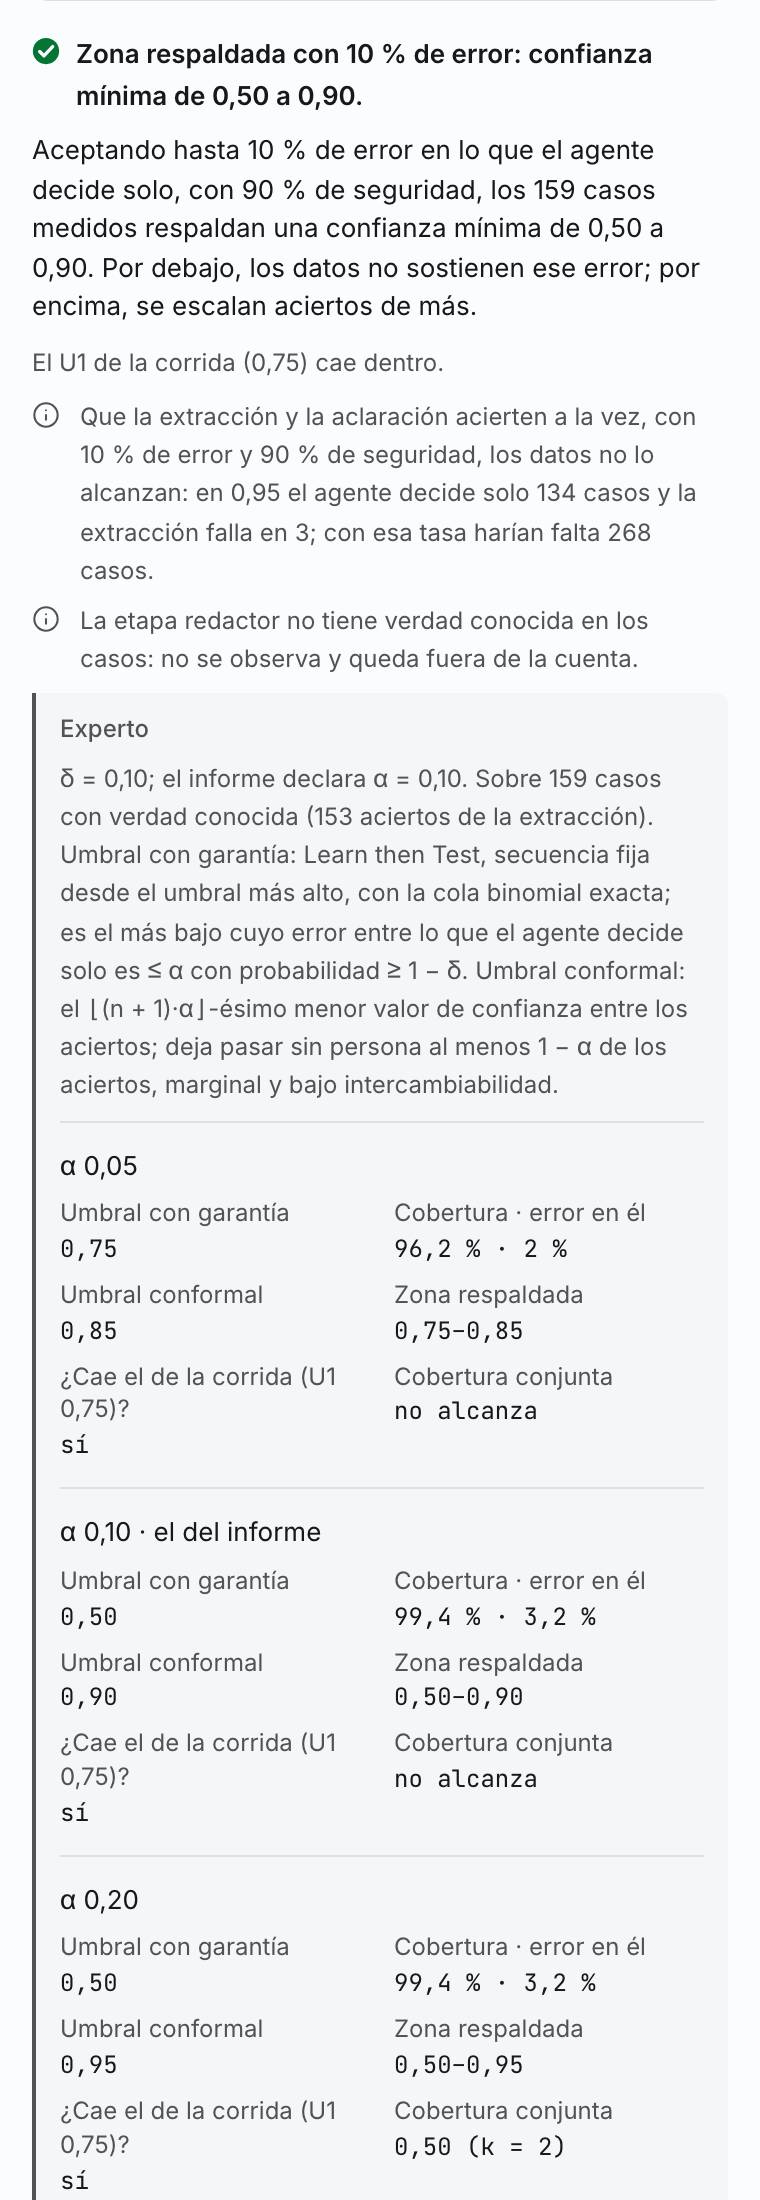
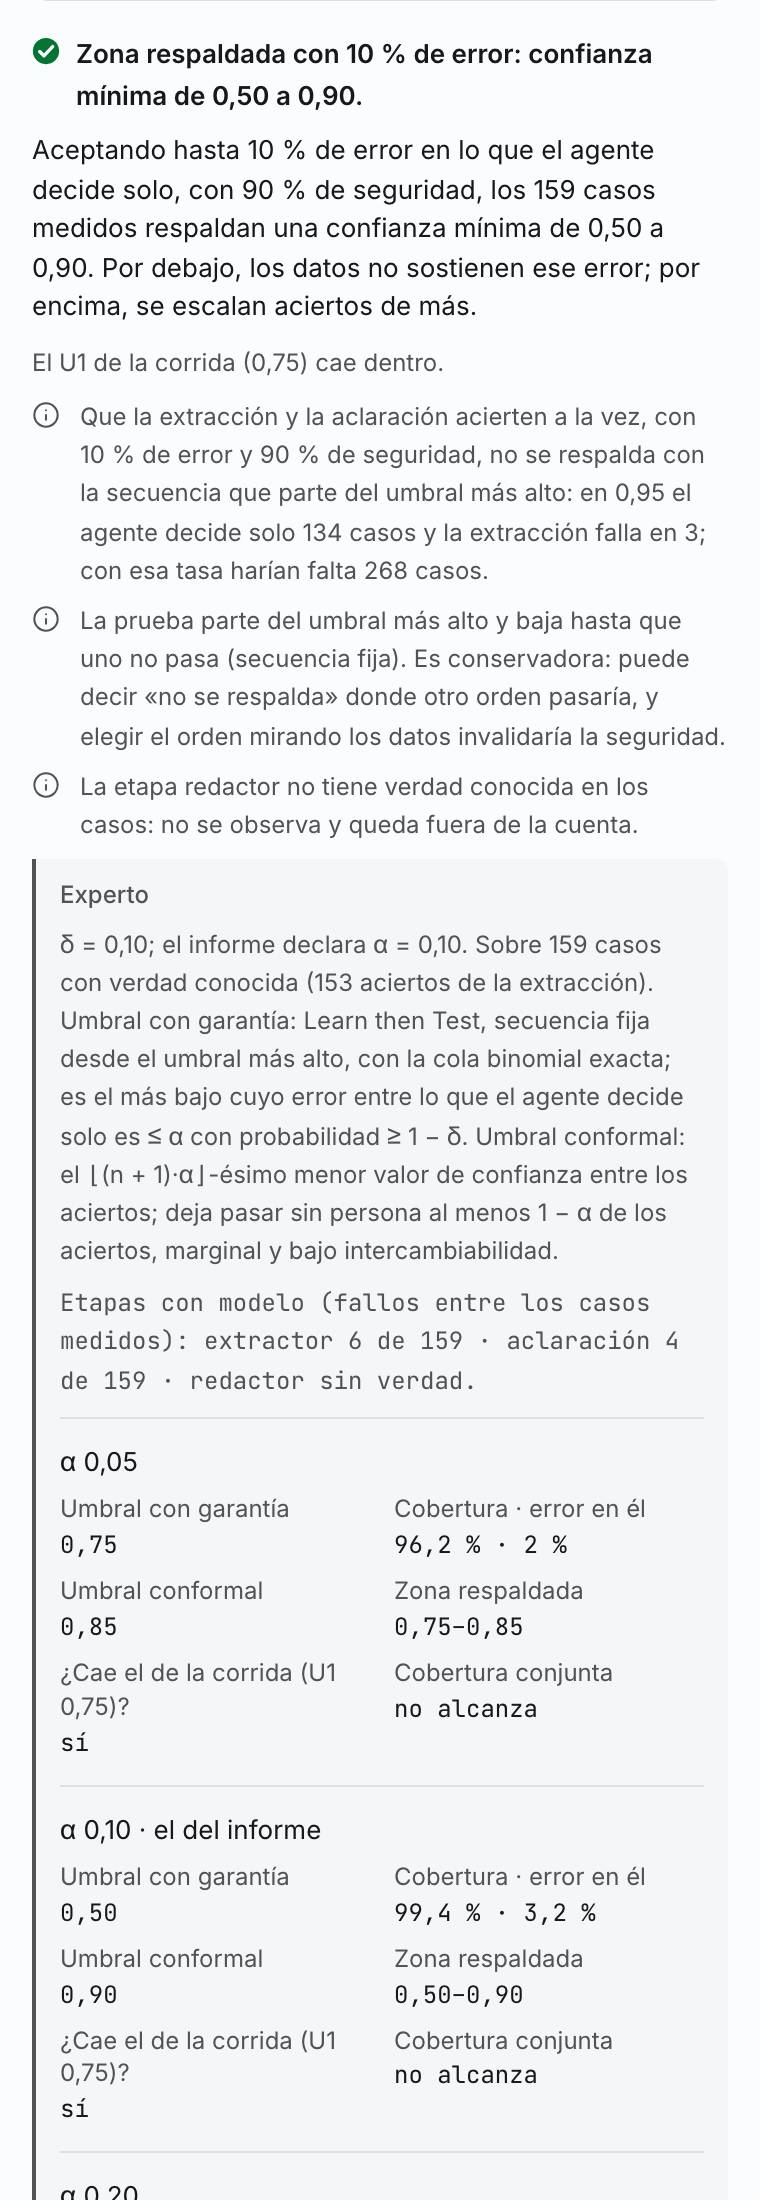
docs(fidelidad): the «garantia» captures retaken with the final screens — the notes on the joint coverage and the order of the test, and the expert lines (1.6 MB, read as image) [F3]

diff --git a/docs/fidelidad/s8-garantia/index.html b/docs/fidelidad/s8-garantia/index.html
@@ -25,10 +25,10 @@ table{border-collapse:collapse;width:100%;font-size:13px;margin-top:8px}th,td{bo
 <h2>La matriz</h2>
 <table><thead><tr><th>#</th><th>Archivo / pantalla</th><th>Botón o estado</th><th>Qué mirar</th><th>Respuesta esperada</th><th>Tu respuesta</th></tr></thead>
 <tbody>
-<tr><td>1</td><td>Playground (/es/playground), la zona respaldada con el error del informe</td><td>tal como abre</td><td>El panel «Dónde el umbral tiene el respaldo de los datos», el selector del error que aceptas, la curva con su banda de trama y la tabla con las filas de la zona marcadas.</td><td>10 % marcado; «Zona respaldada con 10 % de error: confianza mínima de 0,50 a 0,90»; la banda con trama y borde discontinuo sobre la curva; nueve filas con trama, palomita y la palabra «respaldado por los datos» para el lector de pantalla; la leyenda «Zona respaldada». Dos notas de lo que los datos no alcanzan.</td><td>sin respuesta</td></tr>
-<tr><td>2</td><td>Playground, error de 5 % y U1 por debajo de la zona (pasada de interacción)</td><td>tras elegir 5 %</td><td>Que la zona se estreche a 0,75–0,85, que el cuadro ■ de la curva quede fuera de la banda y que la tabla marque solo tres filas.</td><td>«Zona respaldada con 5 % de error: confianza mínima de 0,75 a 0,85»; tres filas con trama; el cuadro del U1 actual (0,60) a la derecha de la banda (un umbral más bajo da más cobertura); en la nota de lo que los datos no alcanzan, «más de 2.680 casos».</td><td>sin respuesta</td></tr>
+<tr><td>1</td><td>Playground (/es/playground), la zona respaldada con el error del informe</td><td>tal como abre</td><td>El panel «Dónde el umbral tiene el respaldo de los datos», el selector del error que aceptas, la curva con su banda de trama y la tabla con las filas de la zona marcadas.</td><td>10 % marcado; «Zona respaldada con 10 % de error: confianza mínima de 0,50 a 0,90»; la banda con trama y borde discontinuo sobre la curva; nueve filas con trama, palomita y la palabra «respaldado por los datos» para el lector de pantalla; la leyenda «Zona respaldada». Tres notas: la cobertura conjunta que no se respalda con la secuencia fija, el orden de la prueba y el redactor sin verdad.</td><td>sin respuesta</td></tr>
+<tr><td>2</td><td>Playground, error de 5 % y U1 por debajo de la zona (pasada de interacción)</td><td>tras elegir 5 %</td><td>Que la zona se estreche a 0,75–0,85, que el cuadro ■ de la curva quede fuera de la banda y que la tabla marque solo tres filas.</td><td>«Zona respaldada con 5 % de error: confianza mínima de 0,75 a 0,85»; tres filas con trama; el cuadro del U1 actual (0,60) a la derecha de la banda (un umbral más bajo da más cobertura); en la nota de la cobertura conjunta, «más de 2.680 casos».</td><td>sin respuesta</td></tr>
 <tr><td>3</td><td>Playground, el deslizador de U1 con la zona y dónde cae su valor</td><td>tras mover U1 a 0,60 con 5 %</td><td>Que el tramo respaldado se dibuje sobre la pista con trama, que debajo diga dónde cae el valor y que a 380 px nada se salga de la tarjeta.</td><td>El tramo de trama entre 0,75 y 0,85; el glifo de alerta y «U1 0,60: por debajo de la zona. Desde 0,75 hacia arriba los datos respaldan el error aceptado; con este valor, no.»</td><td>sin respuesta</td></tr>
-<tr><td>4</td><td>Brecha (/es/brecha), S1 con su garantía, como líder</td><td>tal como abre</td><td>Bajo «El modelo extrae con confianza calibrada»: la zona respaldada en palabras llanas, dónde cae el umbral de la corrida y lo que los datos no alcanzan.</td><td>«Zona respaldada con 10 % de error: confianza mínima de 0,50 a 0,90»; «El U1 de la corrida (0,75) cae dentro.»; la nota de la cobertura conjunta con «268 casos» y la del redactor sin verdad; la curva de S1 con su banda.</td><td>sin respuesta</td></tr>
+<tr><td>4</td><td>Brecha (/es/brecha), S1 con su garantía, como líder</td><td>tal como abre</td><td>Bajo «El modelo extrae con confianza calibrada»: la zona respaldada en palabras llanas, dónde cae el umbral de la corrida y lo que los datos no alcanzan.</td><td>«Zona respaldada con 10 % de error: confianza mínima de 0,50 a 0,90»; «El U1 de la corrida (0,75) cae dentro.»; las notas de la cobertura conjunta con «268 casos», del orden de la prueba y del redactor sin verdad; la curva de S1 con su banda.</td><td>sin respuesta</td></tr>
 <tr><td>5</td><td>Brecha, S1, perfil experto (pasada de interacción)</td><td>tras pulsar «Experto»</td><td>Que aparezca el bloque del experto: el método, la tabla de los tres niveles de α con el del informe marcado, las pruebas, el error conjunto observado y el alcance.</td><td>Tres filas (α 0,05 · α 0,10 «el del informe» · α 0,20); a 0,10: umbral con garantía 0,50, conformal 0,90, zona 0,50–0,90, «sí», «no alcanza»; a 0,20: «0,50 (k = 2)». Las pruebas con p y ✓/✗.</td><td>sin respuesta</td></tr>
 <tr><td>6</td><td>Brecha, S1 en el teléfono (como experto)</td><td>tras pulsar «Experto», 380 px</td><td>Que la tabla de los tres niveles se lea en tarjetas, sin desplazamiento lateral y sin cortar las cifras.</td><td>Una tarjeta por nivel con sus siete datos rotulados; el nivel del informe resaltado; nada se sale de la pantalla.</td><td>sin respuesta</td></tr>
 </tbody></table>
@@ -42,14 +42,14 @@ table{border-collapse:collapse;width:100%;font-size:13px;margin-top:8px}th,td{bo
 <h2>La pasada completa (8 capturas)</h2>
 <p>El playground y la Brecha, a 380 y 1280 px: en español en los dos temas. La miniatura es la parte de arriba; la huella identifica la captura entera que se leyó.</p>
 <div class="minis">
-<figure><img loading="lazy" src="mini-playground-380-oscuro-es.jpg" alt="playground 380 px oscuro es"><figcaption>playground · 380 · oscuro · es<br><code title="SHA-256 de la captura entera">4b1562be043d…</code></figcaption></figure>
-<figure><img loading="lazy" src="mini-playground-1280-oscuro-es.jpg" alt="playground 1280 px oscuro es"><figcaption>playground · 1280 · oscuro · es<br><code title="SHA-256 de la captura entera">1fc3127cba3e…</code></figcaption></figure>
-<figure><img loading="lazy" src="mini-playground-380-claro-es.jpg" alt="playground 380 px claro es"><figcaption>playground · 380 · claro · es<br><code title="SHA-256 de la captura entera">86c58edc0782…</code></figcaption></figure>
-<figure><img loading="lazy" src="mini-playground-1280-claro-es.jpg" alt="playground 1280 px claro es"><figcaption>playground · 1280 · claro · es<br><code title="SHA-256 de la captura entera">01ba12394119…</code></figcaption></figure>
-<figure><img loading="lazy" src="mini-brecha-380-oscuro-es.jpg" alt="brecha 380 px oscuro es"><figcaption>brecha · 380 · oscuro · es<br><code title="SHA-256 de la captura entera">36322f1e342c…</code></figcaption></figure>
-<figure><img loading="lazy" src="mini-brecha-1280-oscuro-es.jpg" alt="brecha 1280 px oscuro es"><figcaption>brecha · 1280 · oscuro · es<br><code title="SHA-256 de la captura entera">468134c7f180…</code></figcaption></figure>
-<figure><img loading="lazy" src="mini-brecha-380-claro-es.jpg" alt="brecha 380 px claro es"><figcaption>brecha · 380 · claro · es<br><code title="SHA-256 de la captura entera">7cb6b7eaf429…</code></figcaption></figure>
-<figure><img loading="lazy" src="mini-brecha-1280-claro-es.jpg" alt="brecha 1280 px claro es"><figcaption>brecha · 1280 · claro · es<br><code title="SHA-256 de la captura entera">a360f1bc470d…</code></figcaption></figure>
+<figure><img loading="lazy" src="mini-playground-380-oscuro-es.jpg" alt="playground 380 px oscuro es"><figcaption>playground · 380 · oscuro · es<br><code title="SHA-256 de la captura entera">86c9f343cd41…</code></figcaption></figure>
+<figure><img loading="lazy" src="mini-playground-1280-oscuro-es.jpg" alt="playground 1280 px oscuro es"><figcaption>playground · 1280 · oscuro · es<br><code title="SHA-256 de la captura entera">7b33c9375442…</code></figcaption></figure>
+<figure><img loading="lazy" src="mini-playground-380-claro-es.jpg" alt="playground 380 px claro es"><figcaption>playground · 380 · claro · es<br><code title="SHA-256 de la captura entera">12ffff8d7655…</code></figcaption></figure>
+<figure><img loading="lazy" src="mini-playground-1280-claro-es.jpg" alt="playground 1280 px claro es"><figcaption>playground · 1280 · claro · es<br><code title="SHA-256 de la captura entera">5632468778f3…</code></figcaption></figure>
+<figure><img loading="lazy" src="mini-brecha-380-oscuro-es.jpg" alt="brecha 380 px oscuro es"><figcaption>brecha · 380 · oscuro · es<br><code title="SHA-256 de la captura entera">c4a5df79d2c9…</code></figcaption></figure>
+<figure><img loading="lazy" src="mini-brecha-1280-oscuro-es.jpg" alt="brecha 1280 px oscuro es"><figcaption>brecha · 1280 · oscuro · es<br><code title="SHA-256 de la captura entera">b0617a9a5da0…</code></figcaption></figure>
+<figure><img loading="lazy" src="mini-brecha-380-claro-es.jpg" alt="brecha 380 px claro es"><figcaption>brecha · 380 · claro · es<br><code title="SHA-256 de la captura entera">7e59c329a940…</code></figcaption></figure>
+<figure><img loading="lazy" src="mini-brecha-1280-claro-es.jpg" alt="brecha 1280 px claro es"><figcaption>brecha · 1280 · claro · es<br><code title="SHA-256 de la captura entera">6ad19ff3f6f6…</code></figcaption></figure>
 </div>
 </main></body>
 </html>
